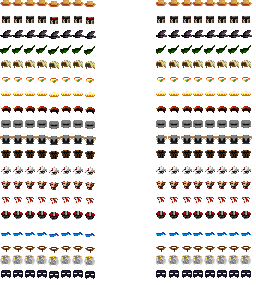
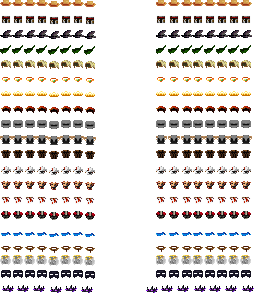
feat(helmet): add CrownOfTheElder helmet item, sprites, hero integration, and i18n

diff --git a/core/src/main/java/com/egoal/darkestpixeldungeon/items/helmets/CrownOfTheElder.kt b/core/src/main/java/com/egoal/darkestpixeldungeon/items/helmets/CrownOfTheElder.kt
@@ -1,0 +1,133 @@
+package com.egoal.darkestpixeldungeon.items.helmets
+
+import com.egoal.darkestpixeldungeon.Dungeon
+import com.egoal.darkestpixeldungeon.actors.Char
+import com.egoal.darkestpixeldungeon.actors.Damage
+import com.egoal.darkestpixeldungeon.actors.buffs.Amok
+import com.egoal.darkestpixeldungeon.actors.buffs.Buff
+import com.egoal.darkestpixeldungeon.actors.buffs.Corruption
+import com.egoal.darkestpixeldungeon.actors.buffs.Terror
+import com.egoal.darkestpixeldungeon.actors.mobs.Mob
+import com.egoal.darkestpixeldungeon.effects.CellEmitter
+import com.egoal.darkestpixeldungeon.effects.particles.ShadowParticle
+import com.egoal.darkestpixeldungeon.items.Item
+import com.egoal.darkestpixeldungeon.messages.M
+import com.egoal.darkestpixeldungeon.sprites.CharSprite
+import com.egoal.darkestpixeldungeon.sprites.ItemSpriteSheet
+import com.watabou.utils.Bundle
+import com.watabou.utils.Random
+import kotlin.math.round
+
+class CrownOfTheElder : Helmet() {
+    override val drawId: Int get() = 19
+    override val replacesHead: Boolean get() = false
+
+    init {
+        image = ItemSpriteSheet.ELDER_CROWN
+    }
+
+    override fun random(): Item = apply {
+        cursed = Random.Float() < 0.7f
+    }
+
+    override fun procGivenDamage(dmg: Damage) {
+        val target = dmg.to as? Char ?: return
+        if (!target.properties().contains(Char.Property.UNDEAD)) return
+
+        val multiplier = if (cursed) 1.5f else 1.3f
+        dmg.value = round(dmg.value * multiplier).toInt()
+        if (dmg.add_value > 0) {
+            dmg.add_value = round(dmg.add_value * multiplier).toInt()
+        }
+
+        if (target is Mob && target.isAlive && target.camp != Char.Camp.HERO) {
+            applyUndeadDominion(target, dmg.from as? Char)
+        }
+    }
+
+    private fun applyUndeadDominion(target: Mob, attacker: Char?) {
+        val dread = Buff.affect(target, UndeadDread::class.java)
+        val baseGain = if (cursed) PRESSURE_GAIN_CURSED else PRESSURE_GAIN_NORMAL
+        val gain = (baseGain + Random.Float(-PRESSURE_JITTER, PRESSURE_JITTER)).coerceAtLeast(1f)
+        if (dread.addPressure(gain) && canConvert(target)) {
+            target.buff(Terror::class.java)?.detach()
+            target.buff(Amok::class.java)?.detach()
+            dread.detach()
+            Buff.affect(target, Corruption::class.java)
+            CellEmitter.center(target.pos).burst(ShadowParticle.CURSE, 6)
+            target.sprite.showStatus(CharSprite.WARNING, M.L(this, "plea_fight"))
+            return
+        }
+
+        val hasNearbyOthers = cursed && Dungeon.level.mobs.any {
+            it !== target && it.isAlive && Dungeon.level.distance(it.pos, target.pos) <= AMOK_CHECK_RADIUS
+        }
+
+        if (hasNearbyOthers) {
+            Buff.prolong(target, Amok::class.java, AMOK_DURATION)
+            if (target.buff(Amok::class.java) != null) {
+                val key = if (Random.Int(2) == 0) "plea_fight" else "plea_garbled"
+                target.sprite.showStatus(CharSprite.WARNING, M.L(this, key))
+            }
+            return
+        }
+
+        val sourceId = attacker?.id() ?: Dungeon.hero.id()
+        Buff.affect(target, Terror::class.java, Terror.DURATION).objectid = sourceId
+        if (target.buff(Terror::class.java) != null) {
+            val key = when (Random.Int(3)) {
+                0 -> "plea_punish"
+                1 -> "plea_forgive"
+                else -> "plea_garbled"
+            }
+            target.sprite.showStatus(CharSprite.WARNING, M.L(this, key))
+        }
+    }
+
+    private fun canConvert(target: Mob): Boolean =
+        !target.properties().contains(Char.Property.BOSS) &&
+            !target.properties().contains(Char.Property.MINIBOSS) &&
+            !target.immunizedBuffs().contains(Corruption::class.java)
+
+    /** Returns elemental resistance modifier for [element]; negative values increase vulnerability. */
+    fun elementalResistanceAmend(element: Damage.Element): Float = when (element) {
+        Damage.Element.Shadow -> if (cursed) 0.35f else 0.25f
+        Damage.Element.Light -> if (cursed) -0.45f else -0.25f
+        else -> 0f
+    }
+
+    override fun price(): Int = 500
+
+    companion object {
+        private const val AMOK_CHECK_RADIUS = 4
+        private const val AMOK_DURATION = 4f
+        private const val PRESSURE_GAIN_NORMAL = 25f
+        private const val PRESSURE_GAIN_CURSED = 33f
+        private const val PRESSURE_JITTER = 10f
+        private const val MAX_UNDEAD_PRESSURE = 100f
+    }
+
+    class UndeadDread : Buff() {
+        private var pressure = 0f
+
+        /** Adds [amount] pressure and returns true once the conversion threshold is reached. */
+        fun addPressure(amount: Float): Boolean {
+            pressure = (pressure + amount).coerceAtMost(MAX_UNDEAD_PRESSURE)
+            return pressure >= MAX_UNDEAD_PRESSURE
+        }
+
+        override fun storeInBundle(bundle: Bundle) {
+            super.storeInBundle(bundle)
+            bundle.put(PRESSURE_KEY, pressure)
+        }
+
+        override fun restoreFromBundle(bundle: Bundle) {
+            super.restoreFromBundle(bundle)
+            pressure = bundle.getFloat(PRESSURE_KEY)
+        }
+
+        companion object {
+            private const val PRESSURE_KEY = "undead_pressure"
+        }
+    }
+}

diff --git a/core/src/main/java/com/egoal/darkestpixeldungeon/actors/hero/Hero.kt b/core/src/main/java/com/egoal/darkestpixeldungeon/actors/hero/Hero.kt
@@ -817,6 +817,14 @@ class Hero : Char() {
         return dmgToken
     }
 
+    override fun elementalResistance(element: Damage.Element): Float {
+        var res = super.elementalResistance(element)
+        (belongings.helmet as? CrownOfTheElder)?.let {
+            res += it.elementalResistanceAmend(element)
+        }
+        return res
+    }
+
     private fun takeMentalDamage(dmg: Damage): Int {
         if (dmg.value <= 0) return 0
 

diff --git a/core/src/main/java/com/egoal/darkestpixeldungeon/items/Catalog.kt b/core/src/main/java/com/egoal/darkestpixeldungeon/items/Catalog.kt
@@ -164,6 +164,7 @@ enum class Catalog(private val baseItems: Map<Class<*>, Boolean>) {
             LittlePail::class.java to false,
             CircletEmerald::class.java to false,
             CrownOfDwarf::class.java to false,
+            CrownOfTheElder::class.java to false,
             HeaddressRegeneration::class.java to false,
             WizardHat::class.java to false,
             MaskOfHorror::class.java to false,

diff --git a/core/src/main/java/com/egoal/darkestpixeldungeon/items/Generator.kt b/core/src/main/java/com/egoal/darkestpixeldungeon/items/Generator.kt
@@ -422,6 +422,7 @@ object Generator {
             LittlePail::class to 1f,
             CircletEmerald::class to 1f,
             CrownOfDwarf::class to 0f, // by king 
+            CrownOfTheElder::class to 0f, // elder altar
             HeaddressRegeneration::class to 1f,
             WizardHat::class to 1f,
             MaskOfHorror::class to 1f,

diff --git a/core/src/main/java/com/egoal/darkestpixeldungeon/sprites/ItemSpriteSheet.java b/core/src/main/java/com/egoal/darkestpixeldungeon/sprites/ItemSpriteSheet.java
@@ -208,6 +208,7 @@ public class ItemSpriteSheet {
     public static final int MANTILLA = HELMET + 18;
     public static final int SLAVE_COLLAR = HELMET + 19;
     public static final int HEADGEAR = HELMET + 20;
+    public static final int ELDER_CROWN = HELMET + 21;
 
     //16 free slots
 
